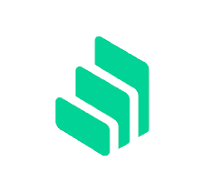
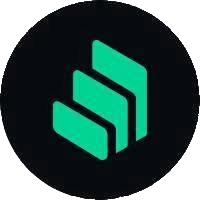
fix protocol images

diff --git a/frontend/src/components/VaultsView.tsx b/frontend/src/components/VaultsView.tsx
@@ -125,7 +125,7 @@ const VaultsView: React.FC<VaultsViewProps> = ({
                   </td>
                   <td className="px-4 py-4 whitespace-nowrap">
                     <div className="flex items-center">
-                      <img src={vault.protocol.imgURL} width="30" height="30" alt="USD Icon" className="mr-2" />
+                      <img src={vault.protocol.imgURL} width="30" height="30" alt="USD Icon" className="mr-2 rounded-full" />
                       <div>{vault.protocol.name}</div>
                     </div>
                   </td>

diff --git a/frontend/src/constants/index.ts b/frontend/src/constants/index.ts
@@ -49,7 +49,7 @@ export const VAULT_DATA: VaultData[] = [
     protocol: {
       name: "Moonwell",
       network: "Base",
-      imgURL: "/Moonwell.png"
+      imgURL: "/Moonwell.jpg"
     },
   },
   {
